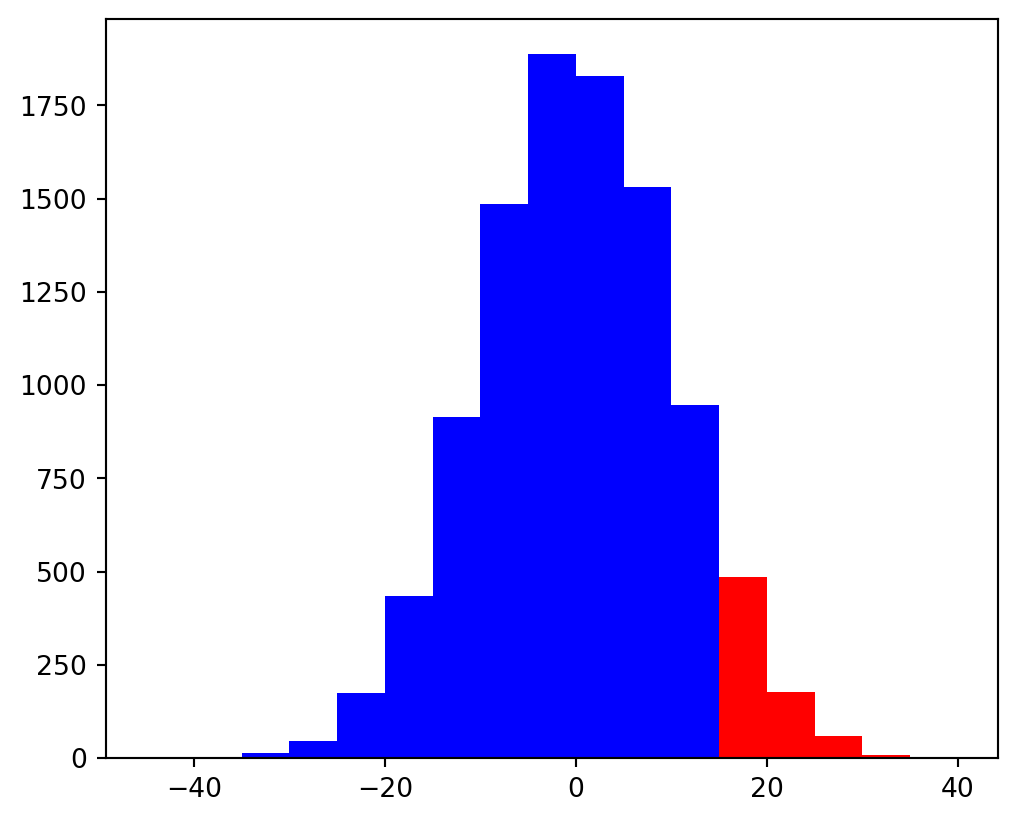
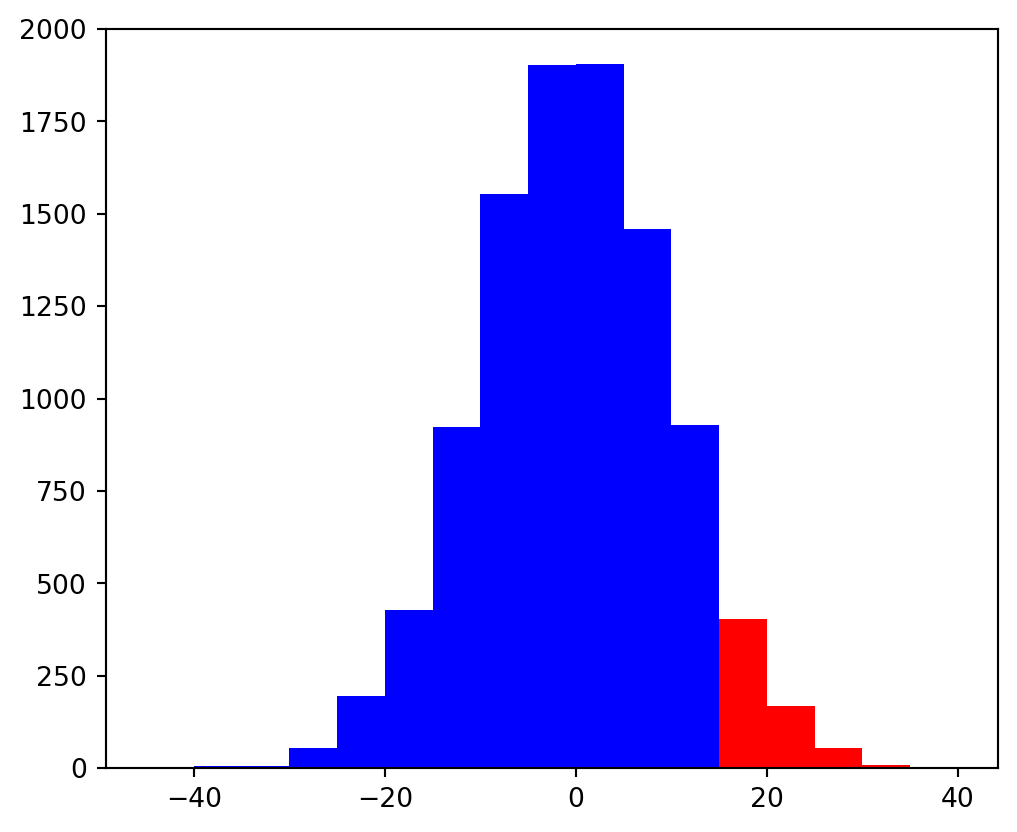
small update

diff --git a/c07_inferenceA/c07_inferenceA.html b/c07_inferenceA/c07_inferenceA.html
@@ -817,7 +817,7 @@ Means difference:  24.62</code></pre>
 <span id="cb10-2"><a href="#cb10-2" aria-hidden="true" tabindex="-1"></a>impr_red_null <span class="op">=</span> np.random.choice(population, <span class="dv">30</span>)</span>
 <span id="cb10-3"><a href="#cb10-3" aria-hidden="true" tabindex="-1"></a><span class="bu">print</span>(<span class="ss">f'Means difference: </span><span class="sc">{</span>impr_red_null<span class="sc">.</span>mean() <span class="op">-</span> real_red_null<span class="sc">.</span>mean()<span class="sc">: .2f}</span><span class="ss">'</span>)</span></code><button title="Copy to Clipboard" class="code-copy-button"><i class="bi"></i></button></pre></div>
 <div class="cell-output cell-output-stdout">
-<pre><code>Means difference:  19.07</code></pre>
+<pre><code>Means difference: -11.28</code></pre>
 </div>
 </div>
 <div class="fragment">
@@ -833,8 +833,8 @@ Means difference:  24.62</code></pre>
 <span id="cb12-6"><a href="#cb12-6" aria-hidden="true" tabindex="-1"></a>impr_red_null <span class="op">=</span> np.random.choice(population, <span class="dv">30</span>)</span>
 <span id="cb12-7"><a href="#cb12-7" aria-hidden="true" tabindex="-1"></a><span class="bu">print</span>(<span class="ss">f'Means difference: </span><span class="sc">{</span>impr_red_null<span class="sc">.</span>mean() <span class="op">-</span> real_red_null<span class="sc">.</span>mean()<span class="sc">: .2f}</span><span class="ss">'</span>)</span></code><button title="Copy to Clipboard" class="code-copy-button"><i class="bi"></i></button></pre></div>
 <div class="cell-output cell-output-stdout">
-<pre><code>Means difference: -13.30
-Means difference:  11.73</code></pre>
+<pre><code>Means difference: -4.46
+Means difference: -2.19</code></pre>
 </div>
 </div>
 </div>
@@ -873,8 +873,8 @@ Means difference:  11.73</code></pre>
 <span id="cb14-8"><a href="#cb14-8"></a><span class="bu">print</span>(<span class="ss">f'Max null mean diff: </span><span class="sc">{</span><span class="bu">max</span>(null_mean_diffs)<span class="sc">: .2f}</span><span class="ss">'</span>)</span>
 <span id="cb14-9"><a href="#cb14-9"></a><span class="bu">print</span>(<span class="ss">f'Min null mean diff: </span><span class="sc">{</span><span class="bu">min</span>(null_mean_diffs)<span class="sc">: .2f}</span><span class="ss">'</span>)</span></code><button title="Copy to Clipboard" class="code-copy-button"><i class="bi"></i></button></pre></div>
 <div class="cell-output cell-output-stdout">
-<pre><code>Max null mean diff:  38.24
-Min null mean diff: -38.58</code></pre>
+<pre><code>Max null mean diff:  36.54
+Min null mean diff: -39.53</code></pre>
 </div>
 </div>
 </div>
@@ -916,7 +916,7 @@ Min null mean diff: -38.58</code></pre>
 <span id="cb16-9"><a href="#cb16-9" aria-hidden="true" tabindex="-1"></a>plt.show()</span></code><button title="Copy to Clipboard" class="code-copy-button"><i class="bi"></i></button></pre></div>
 </details>
 <div class="cell-output cell-output-display">
-<p><img data-src="c07_inferenceA_files/figure-revealjs/cell-11-output-1.png" width="509" height="411"></p>
+<p><img data-src="c07_inferenceA_files/figure-revealjs/cell-11-output-1.png" width="509" height="416"></p>
 </div>
 </div>
 <p>It seems like our original value of 15 points difference is not that extreme. There’s a measure for that:</p>
@@ -953,7 +953,7 @@ Min null mean diff: -38.58</code></pre>
 <span id="cb17-2"><a href="#cb17-2" aria-hidden="true" tabindex="-1"></a></span>
 <span id="cb17-3"><a href="#cb17-3" aria-hidden="true" tabindex="-1"></a><span class="bu">print</span>(<span class="ss">f'P(mean_diff &gt;= 15 | H0) = </span><span class="sc">{</span>one_sided_p_value<span class="sc">: .2f}</span><span class="ss">'</span>)</span></code><button title="Copy to Clipboard" class="code-copy-button"><i class="bi"></i></button></pre></div>
 <div class="cell-output cell-output-stdout">
-<pre><code>P(mean_diff &gt;= 15 | H0) =  0.07</code></pre>
+<pre><code>P(mean_diff &gt;= 15 | H0) =  0.06</code></pre>
 </div>
 </div>
 </div>
@@ -996,7 +996,7 @@ Min null mean diff: -38.58</code></pre>
 <span id="cb19-2"><a href="#cb19-2" aria-hidden="true" tabindex="-1"></a></span>
 <span id="cb19-3"><a href="#cb19-3" aria-hidden="true" tabindex="-1"></a><span class="bu">print</span>(<span class="ss">f'P(|mean_diff| &gt;= 15 | H0) = </span><span class="sc">{</span>two_sided_p_value<span class="sc">: .2f}</span><span class="ss">'</span>)</span></code><button title="Copy to Clipboard" class="code-copy-button"><i class="bi"></i></button></pre></div>
 <div class="cell-output cell-output-stdout">
-<pre><code>P(|mean_diff| &gt;= 15 | H0) =  0.14</code></pre>
+<pre><code>P(|mean_diff| &gt;= 15 | H0) =  0.13</code></pre>
 </div>
 </div>
 </div>
@@ -1081,17 +1081,17 @@ Min null mean diff: -38.58</code></pre>
 <div class="cell" data-execution_count="14">
 <div class="sourceCode cell-code" id="cb22"><pre class="sourceCode python code-with-copy"><code class="sourceCode python"><span id="cb22-1"><a href="#cb22-1" aria-hidden="true" tabindex="-1"></a>pd.value_counts(null_res, normalize<span class="op">=</span><span class="va">True</span>).sort_index()</span></code><button title="Copy to Clipboard" class="code-copy-button"><i class="bi"></i></button></pre></div>
 <div class="cell-output cell-output-display" data-execution_count="14">
-<pre><code>0     0.0010
-1     0.0101
-2     0.0447
-3     0.1186
-4     0.2054
-5     0.2474
-6     0.2090
-7     0.1140
-8     0.0400
-9     0.0092
-10    0.0006
+<pre><code>0     0.0009
+1     0.0094
+2     0.0425
+3     0.1233
+4     0.2063
+5     0.2440
+6     0.2017
+7     0.1170
+8     0.0442
+9     0.0103
+10    0.0004
 dtype: float64</code></pre>
 </div>
 </div>
@@ -1137,8 +1137,8 @@ dtype: float64</code></pre>
 <span id="cb25-4"><a href="#cb25-4" aria-hidden="true" tabindex="-1"></a>two_sided_p_value <span class="op">=</span> np.mean(null_res <span class="op">&gt;=</span> <span class="dv">8</span>) <span class="op">+</span> np.mean(null_res<span class="op">&lt;=</span><span class="dv">2</span>)</span>
 <span id="cb25-5"><a href="#cb25-5" aria-hidden="true" tabindex="-1"></a><span class="bu">print</span>(<span class="ss">f'P(heads&gt;=8 or heads&lt;=2 | H0) = </span><span class="sc">{</span>two_sided_p_value<span class="sc">: .3f}</span><span class="ss">'</span>)</span></code><button title="Copy to Clipboard" class="code-copy-button"><i class="bi"></i></button></pre></div>
 <div class="cell-output cell-output-stdout">
-<pre><code>P(heads &gt;= 8 | H0) =  0.050
-P(heads&gt;=8 or heads&lt;=2 | H0) =  0.106</code></pre>
+<pre><code>P(heads &gt;= 8 | H0) =  0.055
+P(heads&gt;=8 or heads&lt;=2 | H0) =  0.108</code></pre>
 </div>
 </div>
 </div>
@@ -1297,10 +1297,10 @@ P(heads&gt;=8 or heads&lt;=2 | H0) =  0.106</code></pre>
 
 <h3 id="two-common-approaches-to-testing">Two Common Approaches to Testing</h3>
 <ol type="1">
-<li>Compute P-value and compare to some threshold <span class="math inline">\(\alpha\)</span> (1%, 5%)
+<li>Compute p-value and compare to some threshold <span class="math inline">\(\alpha\)</span> (1%, 5%)
 <ul>
-<li>If P-value <span class="math inline">\(\le \alpha \Rightarrow\)</span> reject <span class="math inline">\(H_0\)</span></li>
-<li>If P-value <span class="math inline">\(&gt; \alpha \Rightarrow\)</span> don’t reject <span class="math inline">\(H_0\)</span></li>
+<li>If p-value <span class="math inline">\(\le \alpha \Rightarrow\)</span> reject <span class="math inline">\(H_0\)</span></li>
+<li>If p-value <span class="math inline">\(&gt; \alpha \Rightarrow\)</span> don’t reject <span class="math inline">\(H_0\)</span></li>
 </ul></li>
 </ol>
 <div class="fragment">
@@ -1383,7 +1383,7 @@ P(heads&gt;=8 or heads&lt;=2 | H0) =  0.106</code></pre>
 <div class="cell" data-execution_count="17">
 <div class="sourceCode cell-code" id="cb27"><pre class="sourceCode python code-with-copy"><code class="sourceCode python"><span id="cb27-1"><a href="#cb27-1" aria-hidden="true" tabindex="-1"></a><span class="bu">print</span>(<span class="ss">f'C (above which 1% of null distribution) = </span><span class="sc">{</span>np<span class="sc">.</span>quantile(null_mean_diffs, <span class="fl">0.99</span>)<span class="sc">: .2f}</span><span class="ss">'</span>)</span></code><button title="Copy to Clipboard" class="code-copy-button"><i class="bi"></i></button></pre></div>
 <div class="cell-output cell-output-stdout">
-<pre><code>C (above which 1% of null distribution) =  23.91</code></pre>
+<pre><code>C (above which 1% of null distribution) =  23.38</code></pre>
 </div>
 </div>
 <p>We got 15 points difference, so.</p>
